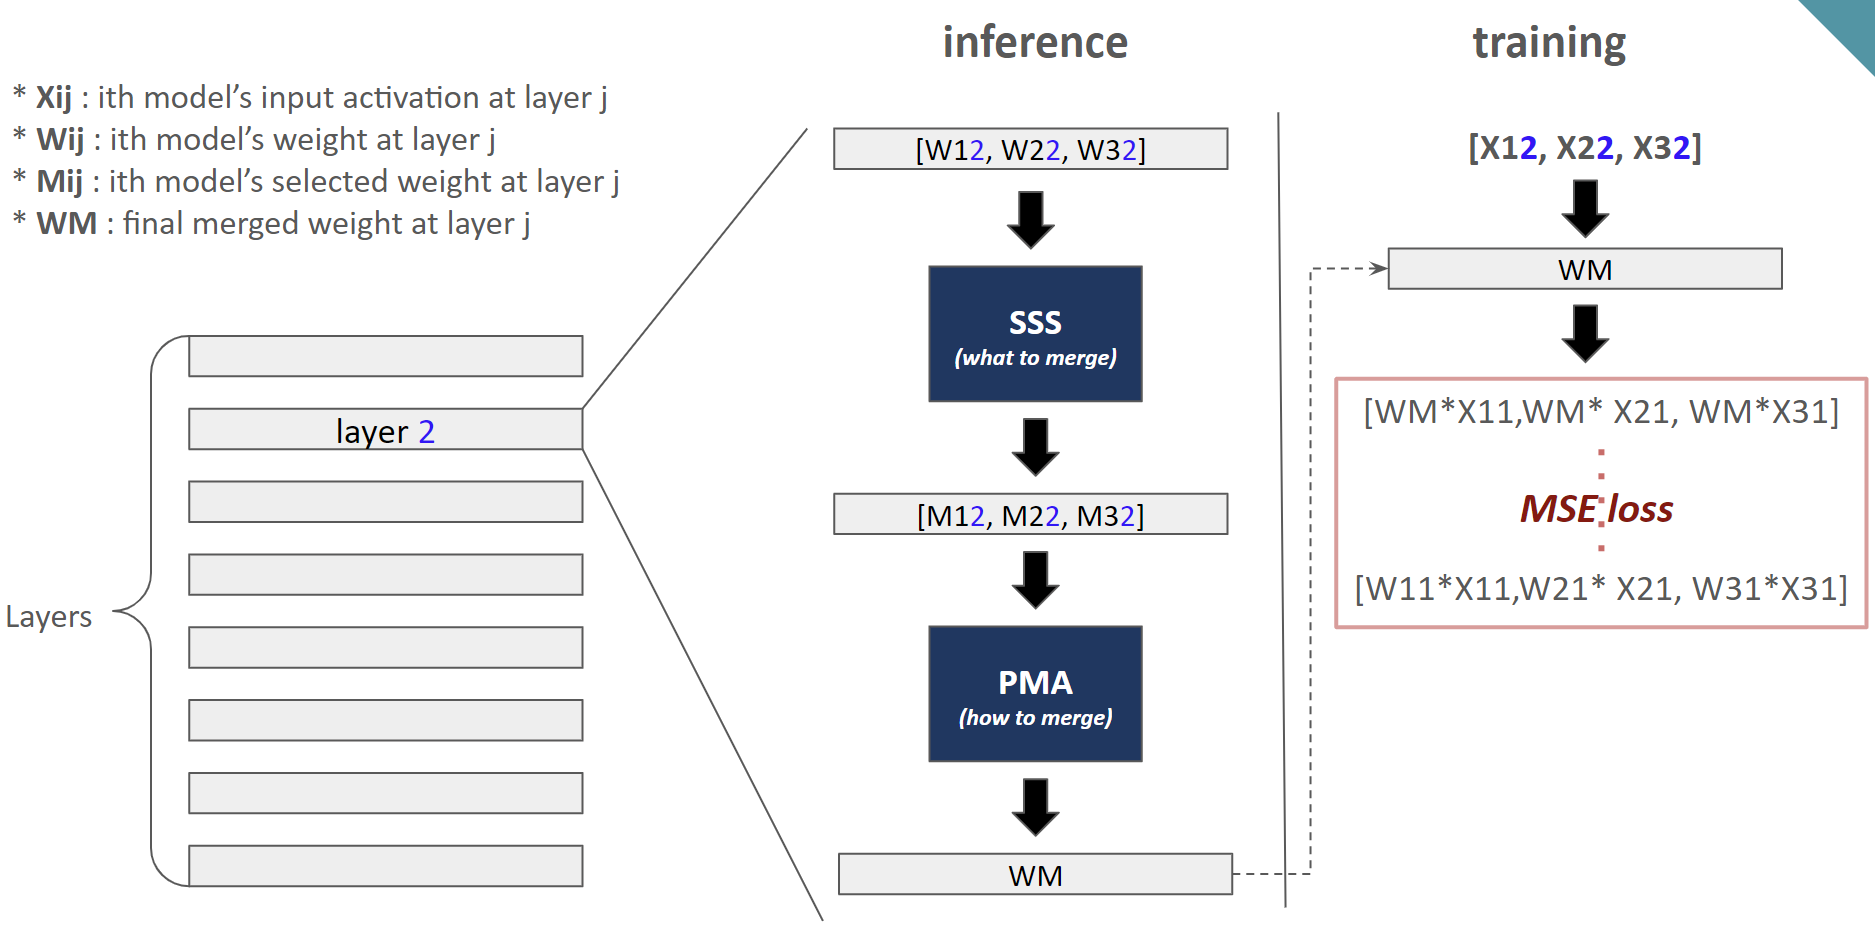
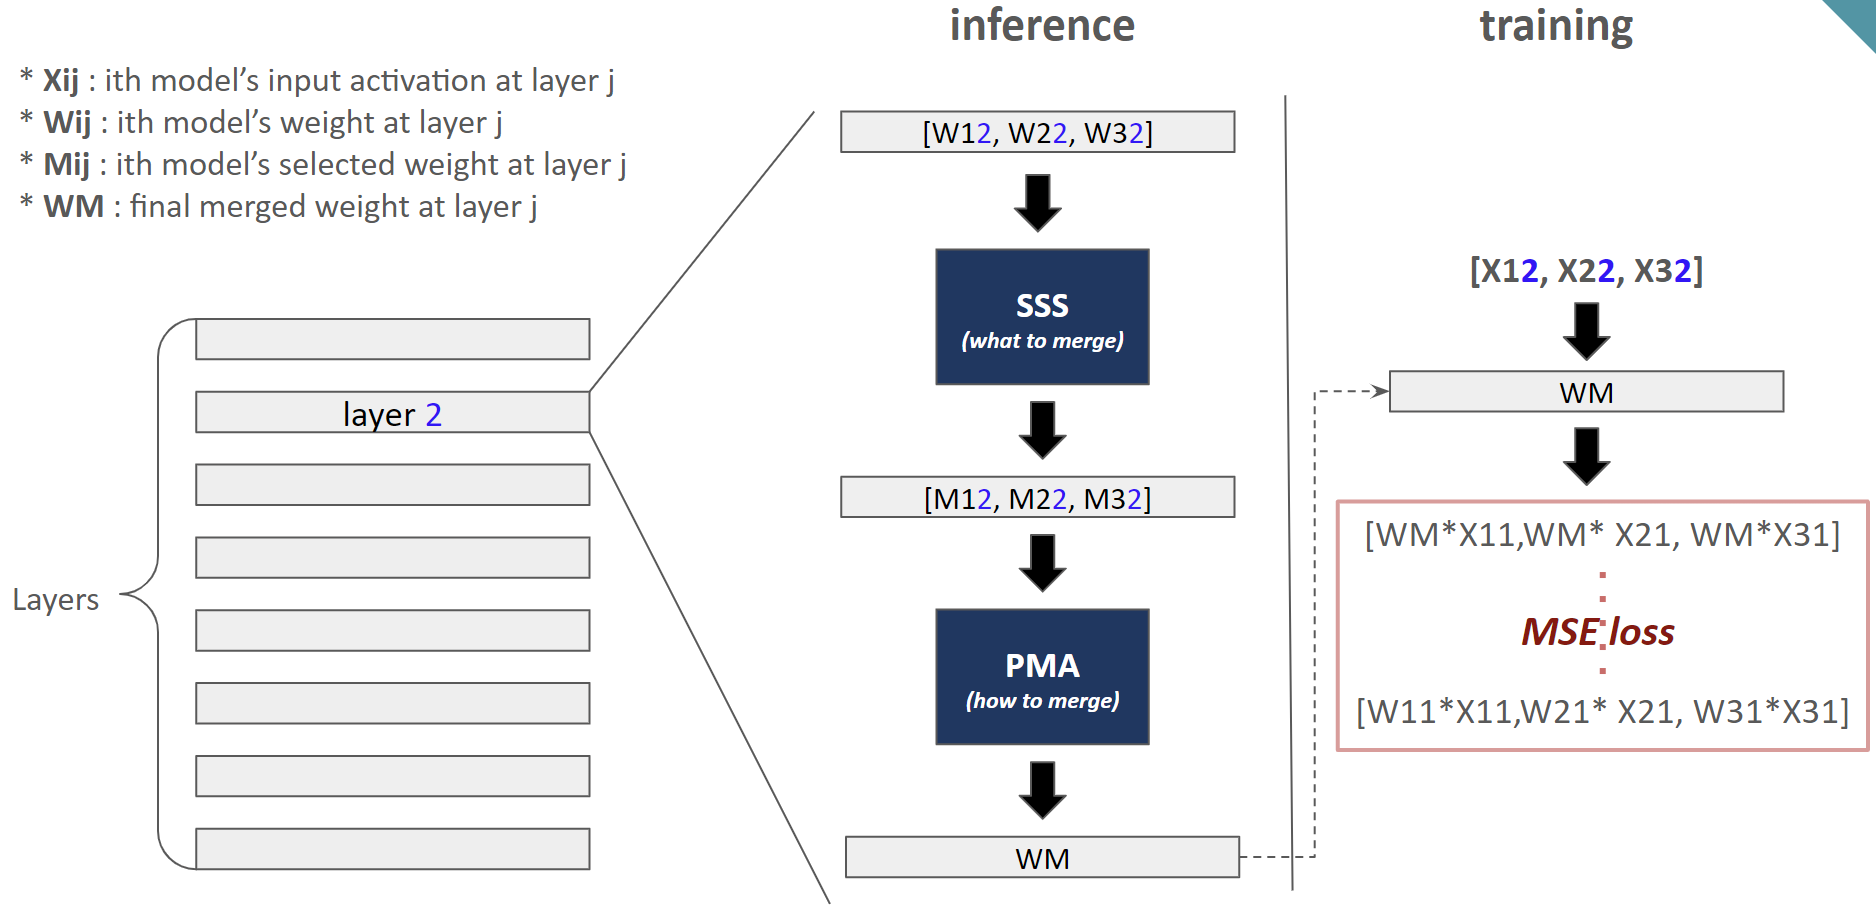
update

diff --git a/_pages/about.md b/_pages/about.md
@@ -29,7 +29,7 @@ My research interest lies in
 - Core ML methods (efficient attention, robust generalization)
 - Interpretable AI
 
-I've also been exploring Model Merging for efficient yet improved generalization(refer to [selected project - presentation; idea proposal]()) and Continual Learning with the focus on resolving the catastrophic forgetting(refer to [selected project - coursework; bcs.50041](https://jina0218.github.io/projects/2_project/)).
+I have also been exploring Model Merging for efficient and improved generalization (see [selected project - presentation; model merging idea proposal](https://docs.google.com/presentation/d/1FxcD1WE9_DqbQFioaJEXzWM8iUNEH2g2XM9yQcXPllw/edit?slide=id.g378c63bb8eb_0_10#slide=id.g378c63bb8eb_0_10))and Continual Learning with a focus on mitigating catastrophic forgetting (see [selected project - coursework; bcs.50041](https://jina0218.github.io/projects/2_project/)).
 
 After my 2nd year, I was recognized as a [KAIST Honor Student](https://herald.kaist.ac.kr/news/articleView.html?idxno=510), earning eligibility for doctoral-level courses and pursuing interdisciplinary studies across departments including:
 - **[AI (Doctoral Level)](https://gsai.kaist.ac.kr/)**: Geometric Deep Learning(A+), Bayesian Machine Learning(A0)

diff --git a/_projects/10_project.md b/_projects/10_project.md
@@ -1,7 +1,7 @@
 ---
 layout: page
-title: Lab Seminar @KAIST MLAI
-description: (2024.12.22) Model Merging Idea Proposal@KAIST MLAI
+title: Idea Proposal@KAIST MLAI
+description: (2024.12.22) Two Idea Proposals for Model Merging
 img: assets/img/project/model_merging_idea.png
 redirect: https://docs.google.com/presentation/d/1FxcD1WE9_DqbQFioaJEXzWM8iUNEH2g2XM9yQcXPllw/edit?slide=id.g378c63bb8eb_0_10#slide=id.g378c63bb8eb_0_10
 importance: 2
